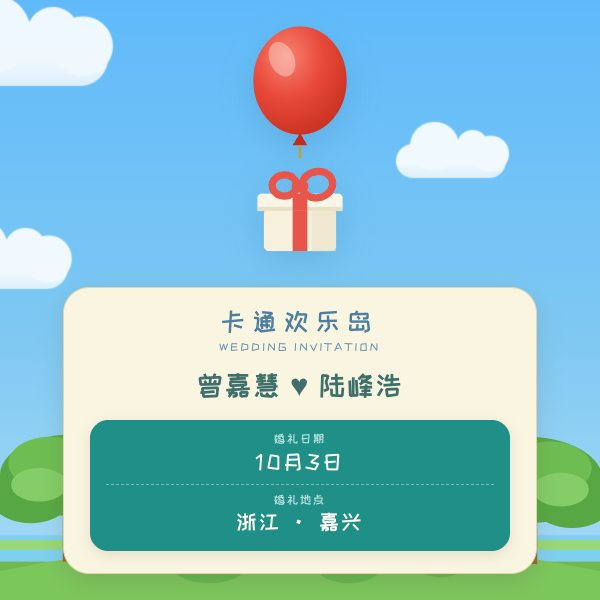
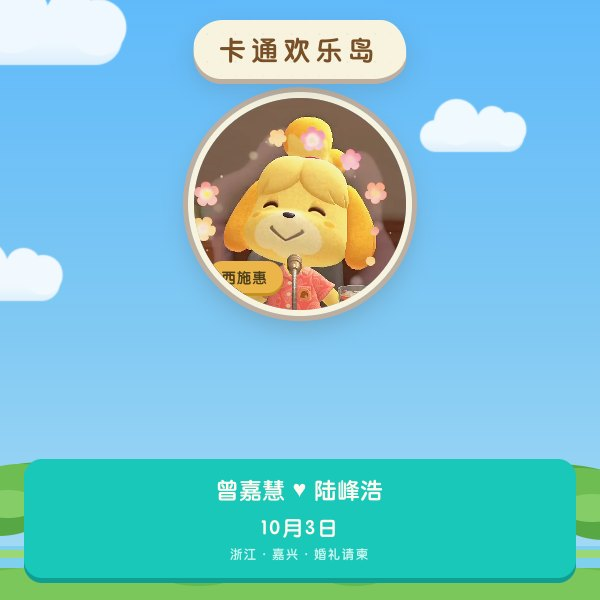
海报/封面改成以西施惠为主体的动森风；站点规格与海报统一
- 从 ref/clip/bili_p13.mp4 t=11.0s 裁出带花瓣特效的西施惠游戏原画面做头像，
  放进圆形米白描边+土色厚圈里，叠游戏同款「西施惠」金牌（动森村民头像的标准呈现）
- 借鉴 lifeodyssey/animal-island-ui-tailwind(MIT) 的规格，且与我此前逐像素实测互相印证：
  radius-base 18px(我量到19)、shadow-press 0 5px 0 #bdaea0(证实按钮确有厚底边)、
  正文棕 #794f27、米白 rgb(247,243,223)。那几张参考 SVG 是内嵌位图非矢量，没借用
- 标题卡改用手绘感不规则圆角 40/35/45/38，动森招牌做法
- 新增 make_images.py：海报与分享封面由站点真实 SVG 生成，改站点后重跑即同步
- 分享封面按 68px 缩略图校准，只留脸、大色块和日期
- 站点正文标题同步改棕色、火漆卡改不规则圆角，与海报同一套语言

diff --git a/index.html b/index.html
@@ -17,7 +17,7 @@
     <meta property="mp:desc" content="卡通欢乐岛婚礼请柬 · 10月3日 浙江嘉兴" />
     <meta property="mp:image:" content="https://artemistokenization.github.io/acnh-invitation/share.jpg" />
     <link rel="icon" href="data:," />
-    <link rel="stylesheet" href="styles.css?v=27" />
+    <link rel="stylesheet" href="styles.css?v=28" />
   </head>
   <body>
     <div class="app">
@@ -165,7 +165,7 @@
         <!-- 场景二：岛内广播 -->
         <section class="scene scene-broadcast" id="scene-broadcast">
           <div class="booth">
-            <video class="character" id="character" src="cast.mp4?v=27" poster="poster.jpg?v=27" playsinline webkit-playsinline="true" x5-playsinline="" x5-video-player-type="h5-page" x5-video-player-fullscreen="false" preload="auto" disablepictureinpicture controlslist="nodownload noplaybackrate" aria-label="西施惠岛内广播（ACNH 游戏原生过场录像，原声播放）"></video>
+            <video class="character" id="character" src="cast.mp4?v=28" poster="poster.jpg?v=28" playsinline webkit-playsinline="true" x5-playsinline="" x5-video-player-type="h5-page" x5-video-player-fullscreen="false" preload="auto" disablepictureinpicture controlslist="nodownload noplaybackrate" aria-label="西施惠岛内广播（ACNH 游戏原生过场录像，原声播放）"></video>
             <span class="note-fx" id="note-fx">♪</span>
           </div>
 
@@ -216,6 +216,6 @@
       </main>
       <i class="iris" id="iris" aria-hidden="true"></i>
     </div>
-    <script type="module" src="app.js?v=27"></script>
+    <script type="module" src="app.js?v=28"></script>
   </body>
 </html>

diff --git a/styles.css b/styles.css
@@ -1,6 +1,6 @@
 @font-face {
   font-family: "ACNH Round";
-  src: url("acnh-round.woff2?v=27") format("woff2");
+  src: url("acnh-round.woff2?v=28") format("woff2");
   font-weight: 100 900;
   font-display: swap;
 }
@@ -540,7 +540,7 @@ button { cursor: pointer; border: 0; background: none; }
   font-weight: 800;
   letter-spacing: 0.06em;
   line-height: 1.15;
-  color: #3f6f6b;
+  color: #794f27;
 }
 .letter-body { margin: 9px 0 0; font-size: 14px; line-height: 1.75; color: #5d5445; }
 
@@ -575,7 +575,7 @@ button { cursor: pointer; border: 0; background: none; }
 .letter-seal {
   margin-top: 16px;
   padding: 20px 18px 22px;
-  border-radius: 24px;
+  border-radius: 34px 28px 38px 30px/30px 38px 28px 34px;
   background: var(--canvas), linear-gradient(170deg, #fffdf5, #f2f4e0);
   border: 2px solid #e6dcc0;
   box-shadow: var(--panel);

diff --git a/app.js b/app.js
@@ -20,7 +20,7 @@ function preloadBlip() {
   try {
     ensureCtx();
     if (blipBuf) return;
-    fetch("blip.m4a?v=27")
+    fetch("blip.m4a?v=28")
       .then((r) => r.arrayBuffer())
       .then((b) => ac.decodeAudioData(b))
       .then((buf) => { blipBuf = buf; })
@@ -361,7 +361,7 @@ async function boot() {
   setSwitch(el("btn-sound"), true, "开", "关");
   video.muted = false;
 
-  const res = await fetch("sync.json?v=27");
+  const res = await fetch("sync.json?v=28");
   const data = await res.json();
   data.lines.forEach((l) => { l._times = lineTimes(l); });
   sync = data;
